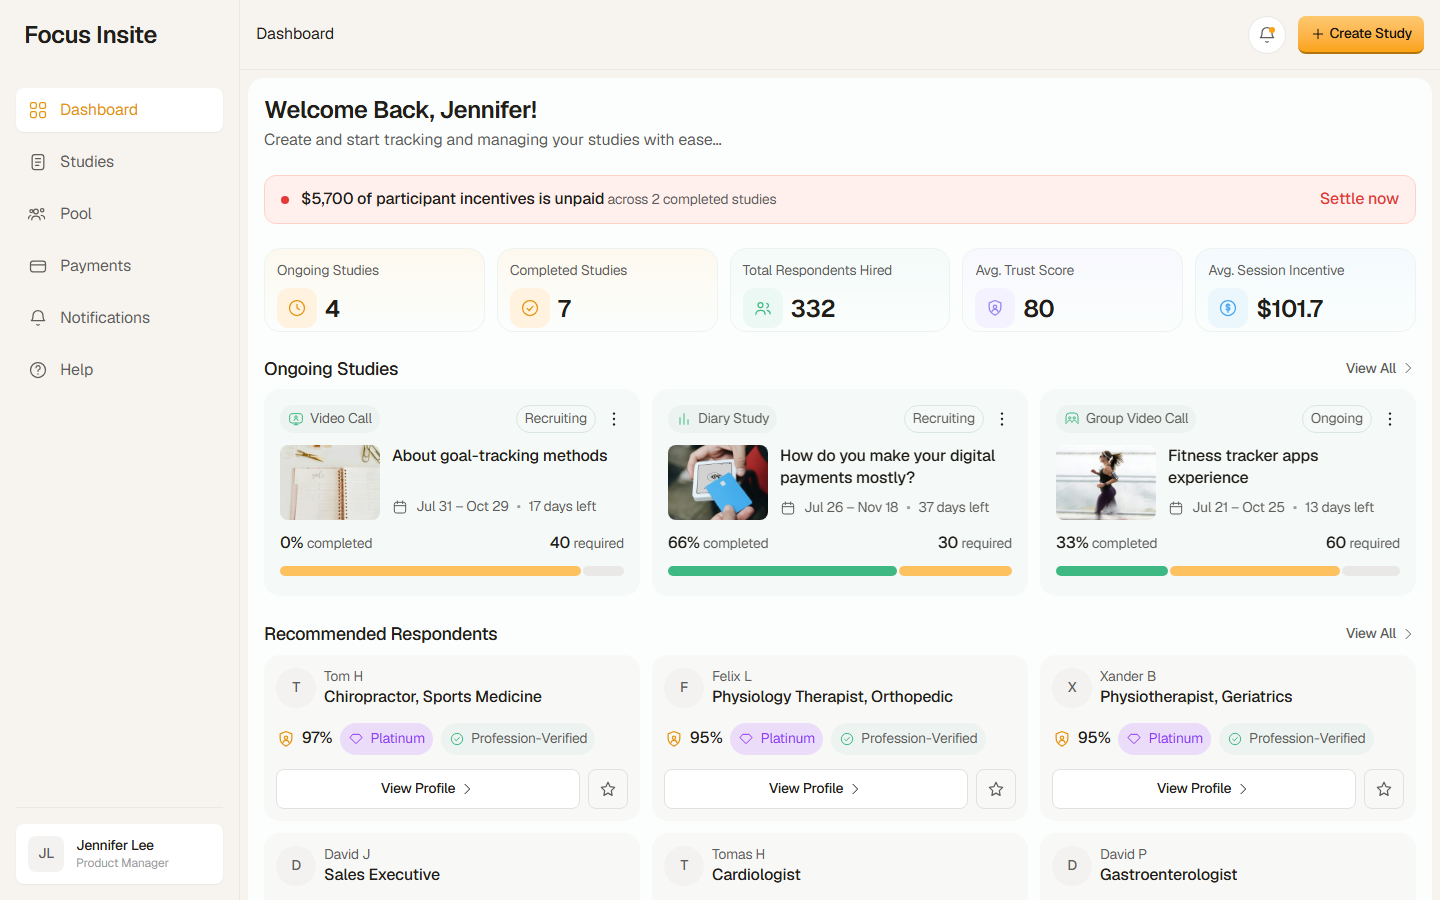
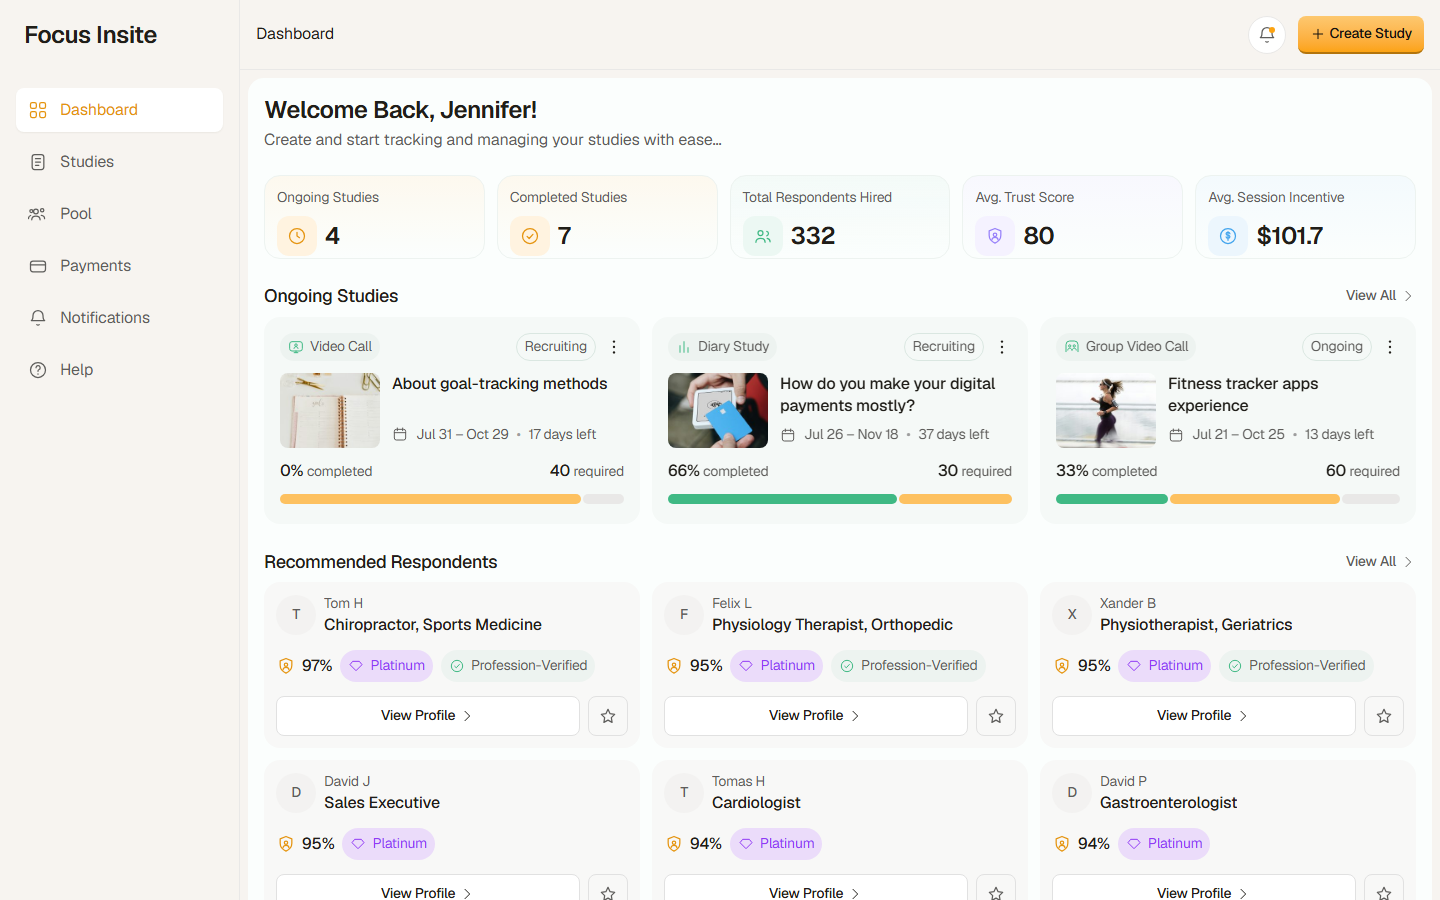
Client landing: a clean dashboard capture, and a landing-only display size for the hero

diff --git a/client/src/screens/landing/Landing.tsx b/client/src/screens/landing/Landing.tsx
@@ -81,7 +81,7 @@ export default function Landing() {
         <section className="scroll-mt-[70px] px-6 pb-10 pt-16">
           <div className="mx-auto flex w-[1120px] flex-col items-center text-center">
             <p className="flex h-8 items-center gap-1.5 rounded-full bg-yellow-40 px-3 text-text-medium text-yellow-700"><VerifiedMark className="h-4 w-4" />Research with verified participants</p>
-            <h1 className="max-w-[760px] pt-5 text-heading text-text-title">Recruit verified participants and run your research studies in one place</h1>
+            <h1 className="max-w-[920px] pt-5 text-display text-text-title">Recruit verified participants and run your research studies in one place</h1>
             <p className="max-w-[620px] pt-4 text-body-regular text-text-subtitle">Create a study, screen and match participants, run your sessions and get results. Surveys, video calls, in-person interviews and diary studies, without leaving the app.</p>
             <div className="flex items-center gap-3 pt-7">
               <Button size="none" className="h-12 px-8 text-body-medium" onClick={signUp}>Sign Up</Button>

diff --git a/client/tailwind.config.ts b/client/tailwind.config.ts
@@ -65,6 +65,9 @@ export default {
         'title-l': ['24px', { lineHeight: '31px', letterSpacing: '-0.02em', fontWeight: '600' }],
         // Heading/Size 32, Semibold: a Figma variable on the client frames, used by the landing page's headlines.
         heading: ['32px', { lineHeight: '40px', letterSpacing: '-0.02em', fontWeight: '600' }],
+        // LANDING PAGE ONLY. One size above Heading, for the marketing hero (screens/landing). Not a Figma
+        // variable and not for any in-app screen: the in-app scale stops at heading.
+        display: ['48px', { lineHeight: '56px', letterSpacing: '-0.02em', fontWeight: '600' }],
       },
       // Desktop frame: 1440 wide, 240 nav, 72 top bar, 600 side panels, 460 modals.
       maxWidth: { frame: '1440px', page: '1200px', panel: '600px', modal: '460px' },

diff --git a/client/CLAUDE.md b/client/CLAUDE.md
@@ -424,9 +424,17 @@ to the dashboard, or back to the onboarding step they left.
   them with `npm run shot` when those screens change.
 - Every claim is a screen that exists. **No customer names, counts, logos or
   quotes: none are real yet.** Do not add any that are not.
-- The headlines use `text-heading` (32, Semibold): the Figma `Heading/Size 32`
-  variable, added to `tailwind.config.ts` for this page. It is the largest size
-  in the system; a bigger hero is a design decision, not a tweak.
+- The section headlines use `text-heading` (32, Semibold): the Figma
+  `Heading/Size 32` variable, added to `tailwind.config.ts` for this page.
+- **`text-display` (48 / 56, Semibold) is a landing page only size.** The
+  in-app scale was built for screens and stops at 32, which is too small for a
+  marketing hero, so one size was added above it on 13 Oct 2026. It is not a
+  Figma variable. It is used once, on the hero headline, and must not be used
+  on any in-app screen.
+- The dashboard capture is taken from a settled state (the demo client's two
+  completed studies paid), so no overdue banner or red shows on a marketing
+  page. To retake it: pay those balances through `shared/store.ts` `payBalance`,
+  load that state, then `npm run shot -- dashboard`. The app is not changed.
 - `node --experimental-websocket scripts/landing-check.mjs` (repo root, against
   the one-origin build) checks containment at 1440 x 900 and 1440 x 1200, the
   sticky header at six scroll positions, and where every button goes.
